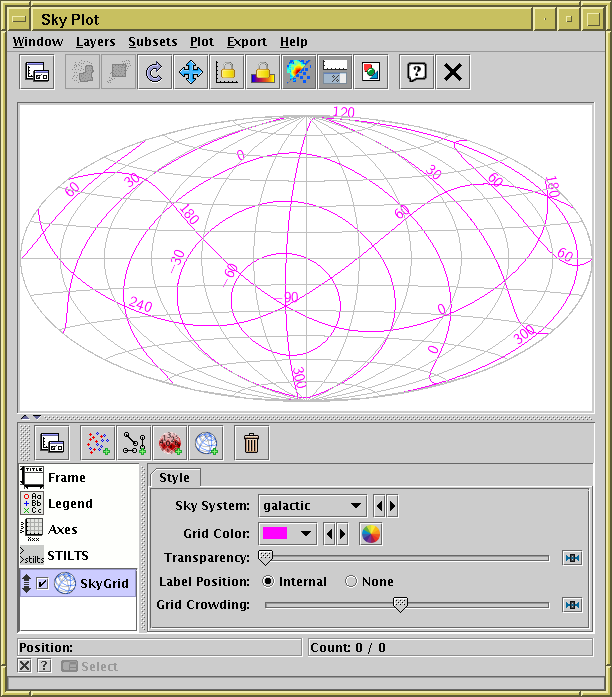
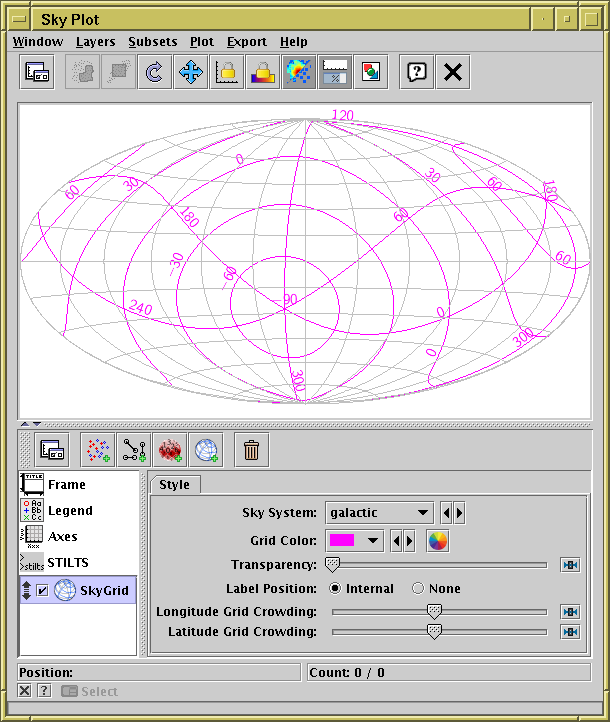
ttools: provide skygrid lon and lat grid crowding separately
Replace the SkyGridPlotter crowd parameter with two parameters,
loncrowd and latcrowd, so that density of parallels and meridians
can be controlled separately (e.g. to plot just an equator and no
other grid lines).  This was requested by Sergey Klioner (DPAC/AGIS).

This is a backwardly-incompatible change: invocations which use the
crowd parameter for this plot layer will now fail.  It would be
possible to catch that parameter value to prevent that happening,
but probably it's better to advertise that the new options are
present.  I don't expect the impact will be very high, since
probably not many people are using this plot layer.

Changed region(s): [[0.0, 0.0, 0.9967, 0.9943], [0.841, 0.0, 0.9967, 0.0603]]

diff --git a/ttools/src/main/uk/ac/starlink/ttools/plot2/layer/SkyGridPlotter.java b/ttools/src/main/uk/ac/starlink/ttools/plot2/layer/SkyGridPlotter.java
@@ -56,9 +56,33 @@ public class SkyGridPlotter extends AbstractPlotter<SkyGridPlotter.GridStyle> {
     public static final ConfigKey<Double> TRANSPARENCY_KEY =
         StyleKeys.TRANSPARENCY;
 
-    /** Config key for grid line crowding. */
-    public static final ConfigKey<Double> CROWD_KEY =
-        SkySurfaceFactory.CROWD_KEY;
+    /** Config key for longitude grid line crowding. */
+    public static final ConfigKey<Double> LONCROWD_KEY =
+        StyleKeys.createCrowdKey(
+            new ConfigMeta( "loncrowd", "Longitude Grid Crowding" )
+           .setShortDescription( "Longitude grid line crowding" )
+           .setXmlDescription( new String[] {
+                "<p>Determines how closely sky longitude grid lines",
+                "(meridians) are spaced.",
+                "The default value is 1, meaning normal crowding.",
+                "Larger values result in more grid lines,",
+                "and smaller values in fewer grid lines.",
+                "</p>",
+            } ) );
+
+    /** Config key for latitude grid line crowding. */
+    public static final ConfigKey<Double> LATCROWD_KEY =
+        StyleKeys.createCrowdKey(
+            new ConfigMeta( "latcrowd", "Latitude Grid Crowding" )
+           .setShortDescription( "Latitude grid line crowding" )
+           .setXmlDescription( new String[] {
+                "<p>Determines how closely sky latitude grid lines",
+                "(parallels) are spaced.",
+                "The default value is 1, meaning normal crowding.",
+                "Larger values result in more grid lines,",
+                "and smaller values in fewer grid lines.",
+                "</p>",
+            } ) );
 
     /** Config key for grid sky system. */
     public static final ConfigKey<SkySys> GRIDSYS_KEY =
@@ -127,7 +151,8 @@ public class SkyGridPlotter extends AbstractPlotter<SkyGridPlotter.GridStyle> {
             COLOR_KEY,
             TRANSPARENCY_KEY,
             LABELLER_KEY,
-            CROWD_KEY,
+            LONCROWD_KEY,
+            LATCROWD_KEY,
         };
     }
 
@@ -146,12 +171,13 @@ public class SkyGridPlotter extends AbstractPlotter<SkyGridPlotter.GridStyle> {
         Color color =
             StyleKeys.getAlphaColor( config, COLOR_KEY, TRANSPARENCY_KEY );
         SkyAxisLabeller labeller = config.get( LABELLER_KEY );
-        double crowd = config.get( CROWD_KEY ).doubleValue();
+        double loncrowd = config.get( LONCROWD_KEY ).doubleValue();
+        double latcrowd = config.get( LATCROWD_KEY ).doubleValue();
 
         /* Turn config items into a GridStyle instance. */
         Rotation rotation = Rotation.createRotation( gridsys, viewsys );
         return new GridStyle( rotation, color, labeller, captioner,
-                              sexagesimal, crowd, antialias );
+                              sexagesimal, loncrowd, latcrowd, antialias );
     }
 
     public PlotLayer createLayer( DataGeom geom, DataSpec dataSpec,
@@ -188,7 +214,7 @@ public class SkyGridPlotter extends AbstractPlotter<SkyGridPlotter.GridStyle> {
      */
     private void paintGrid( SkySurface surf, GridStyle style, Graphics g ) {
         GridLiner gl = surf.createGridder( style.rotation_, style.sexagesimal_,
-                                           style.crowd_ );
+                                           style.loncrowd_, style.latcrowd_ );
         if ( gl == null ) {
             return;
         }
@@ -222,7 +248,8 @@ public class SkyGridPlotter extends AbstractPlotter<SkyGridPlotter.GridStyle> {
         private final SkyAxisLabeller labeller_;
         private final Captioner captioner_;
         private final boolean sexagesimal_;
-        private final double crowd_;
+        private final double loncrowd_;
+        private final double latcrowd_;
         private final boolean antialias_;
 
         /**
@@ -233,19 +260,21 @@ public class SkyGridPlotter extends AbstractPlotter<SkyGridPlotter.GridStyle> {
          * @param  labeller  grid line label positioner
          * @param  captioner grid line label captioner
          * @param  sexagesimal   true for sexagesimal, false for decimal
-         * @param  crowd     grid line crowding, 1 is normal
+         * @param  loncrowd     longitude grid line crowding, 1 is normal
+         * @param  latcrowd     latitude grid line crowding, 1 is normal
          * @param  antialias   true for antialiased lines
          */
         public GridStyle( Rotation rotation, Color color,
                           SkyAxisLabeller labeller, Captioner captioner,
-                          boolean sexagesimal, double crowd,
+                          boolean sexagesimal, double loncrowd, double latcrowd,
                           boolean antialias ) {
             rotation_ = rotation;
             color_ = color;
             labeller_ = labeller;
             captioner_ = captioner;
             sexagesimal_ = sexagesimal;
-            crowd_ = crowd;
+            loncrowd_ = loncrowd;
+            latcrowd_ = latcrowd;
             antialias_ = antialias;
         }
 
@@ -271,7 +300,8 @@ public class SkyGridPlotter extends AbstractPlotter<SkyGridPlotter.GridStyle> {
             code = 23 * code + labeller_.hashCode();
             code = 23 * code + captioner_.hashCode();
             code = 23 * code + ( sexagesimal_ ? 11 : 13 );
-            code = 23 * code + Float.floatToIntBits( (float) crowd_ );
+            code = 23 * code + Float.floatToIntBits( (float) loncrowd_ );
+            code = 23 * code + Float.floatToIntBits( (float) latcrowd_ );
             code = 23 * code + ( antialias_ ? 17 : 29 );
             return code;
         }
@@ -285,7 +315,8 @@ public class SkyGridPlotter extends AbstractPlotter<SkyGridPlotter.GridStyle> {
                     && this.labeller_.equals( other.labeller_ )
                     && this.captioner_.equals( other.captioner_ )
                     && this.sexagesimal_ == other.sexagesimal_
-                    && this.crowd_ == other.crowd_
+                    && this.loncrowd_ == other.loncrowd_
+                    && this.latcrowd_ == other.latcrowd_
                     && this.antialias_ == other.antialias_;
             }
             else {

diff --git a/ttools/src/main/uk/ac/starlink/ttools/plot2/geom/SkySurface.java b/ttools/src/main/uk/ac/starlink/ttools/plot2/geom/SkySurface.java
@@ -287,7 +287,7 @@ public class SkySurface implements Surface {
      * @return   gridliner, or null on failure
      */
     private GridLiner createGridder() {
-        return createGridder( null, sexagesimal_, crowd_ );
+        return createGridder( null, sexagesimal_, crowd_, crowd_ );
     }
 
     /**
@@ -300,11 +300,12 @@ public class SkySurface implements Surface {
      *                    before grid lines are plotted;
      *                    may be null for no additional rotation
      * @param  sexagesimal  true for sexagesimal labels, false for decimal
-     * @param  crowd   tick mark crowding factor, 1 is normal
+     * @param  loncrowd   longitude tick mark crowding factor, 1 is normal
+     * @param  latcrowd   latitude tick mark crowding factor, 1 is normal
      * @return   gridliner, or null on failure
      */
     public GridLiner createGridder( Rotation rotation, boolean sexagesimal,
-                                    double crowd ) {
+                                    double loncrowd, double latcrowd ) {
         double[] rotmat = rotation == null
                         ? rotmat_
                         : Matrices.mmMult( rotmat_, rotation.getMatrix() );
@@ -325,8 +326,9 @@ public class SkySurface implements Surface {
             if ( plotBounds.width < 32 || plotBounds.height < 32 ) {
                 return null;
             }
-            GridLiner gl = new GridLiner( plotBounds, rotater, projecter,
-                                          scaler, sexagesimal, crowd, crowd );
+            GridLiner gl =
+                new GridLiner( plotBounds, rotater, projecter,
+                               scaler, sexagesimal, loncrowd, latcrowd );
             try {
                 gl.grid();
                 return gl;
